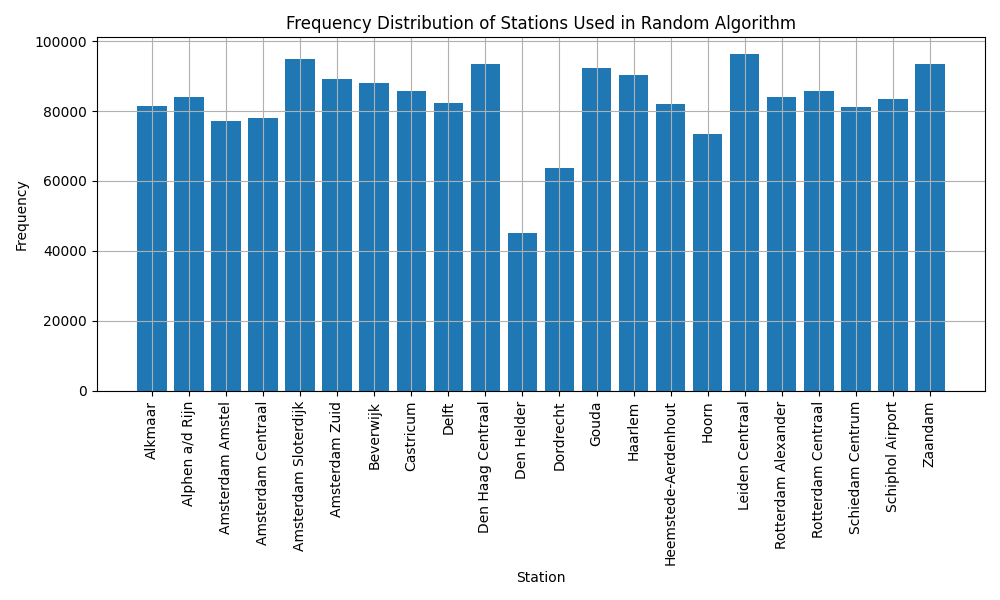
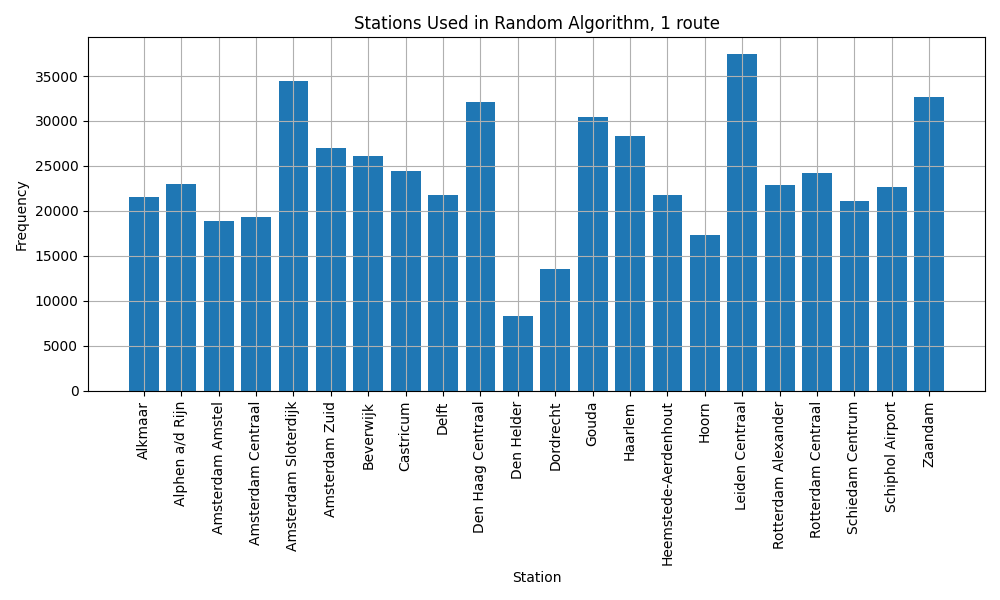
?

diff --git a/parent/main.py b/parent/main.py
@@ -6,6 +6,7 @@ import numpy as np
 from code.classes.railnl import RailNL
 from code.algorithms.algorithm import Algorithm
 from code.algorithms.random_algorithm import RandomAlgorithm
+from code.algorithms.greedy import Greedy
 from code.algorithms.hillclimber import Hillclimber
 from code.algorithms.score import Score
 from parent.code.experiments.experiments import Experiment
@@ -13,25 +14,77 @@ from parent.code.experiments.experiments import Experiment
 if __name__ == "__main__":
     data = RailNL("Holland") # manipulate
 
-    # Test Random Algorithm
-    random_algorithm = RandomAlgorithm(data)
-    random_score = Score(random_algorithm)
-    #random_algorithm.make_picture()
-    print(random_algorithm.output())
-    print(f"Random Algorithm Score: {random_score.calculate()}")
+    # # Test Random Algorithm
+    # random_algorithm = RandomAlgorithm(data)
+    # random_score = Score(random_algorithm)
+    # #random_algorithm.make_picture()
+    # print(random_algorithm.output())
+    # print(f"Random Algorithm Score: {random_score.calculate()}")
 
-    # Perform experiment with RandomAlgorithm and collect scores
-    random_experiment = Experiment(RandomAlgorithm, "Holland")
-    scores = random_experiment.run_experiment(100000)
-    average = random_experiment.average_score()
+    # # Perform experiment with RandomAlgorithm and collect scores
+    # random_experiment = Experiment(RandomAlgorithm, "Holland")
+    # scores = random_experiment.run_experiment(1000)
+    # average = random_experiment.average_score()
+    # print(f"average score: {average}")
+
+
+    # # Plotting the frequency distribution of scores
+    # plt.figure(figsize=(10, 6))
+    # plt.hist(scores, bins=50, edgecolor='black', alpha=0.7)
+    # plt.title('Frequency Distribution of Scores RandomAlgorithm 7 routes')
+    # plt.xlabel('Score')
+    # plt.xlim(0, 10000)
+    # plt.ylabel('Frequency')
+    # plt.grid(True)
+    # plt.tight_layout()
+    # plt.savefig("freq.png")
+
+    # # Plotting frequency distributions of connections used
+    # total_connections = RailNL("Holland").get_total_connections()
+    # connection_labels = [f"{c[0].name} - {c[1].name}" for c in total_connections]
+    
+    # plt.figure(figsize=(10, 10))
+    # plt.bar(range(len(total_connections)), random_experiment.count_connections_used, tick_label=connection_labels)
+    # plt.xticks(rotation=90)
+    # plt.title('Connections Used in Random Algorithm, 1 route')
+    # plt.xlabel('Connection')
+    # plt.ylabel('Frequency')
+    # plt.grid(True)
+    # plt.tight_layout()
+    # plt.savefig("freq2.png")
+
+    # # Plotting frequency distribution of stations used
+    # total_stations = list(RailNL("Holland").stations_dict().values())
+    # station_labels = [station.name for station in total_stations]
+
+    # plt.figure(figsize=(10, 6))
+    # plt.bar(range(len(total_stations)), random_experiment.count_stations_used, tick_label=station_labels)
+    # plt.xticks(rotation=90)
+    # plt.title('Stations Used in Random Algorithm, 1 route')
+    # plt.xlabel('Station')
+    # plt.ylabel('Frequency')
+    # plt.grid(True)
+    # plt.tight_layout()
+    # plt.savefig("freq3.png")
+
+    # Test Greedy Algorithm
+    greedy_alg = Greedy(data)
+    greedy_score = Score(greedy_alg).calculate()
+    greedy_alg.make_picture()
+    print(f"Greedy algorithm score: {greedy_score}")
+
+    # Perform experiment with Greedy and collect scores
+    greedy_experiment = Experiment(Greedy, "Holland")
+    scores = greedy_experiment.run_experiment(1000)
+    average = greedy_experiment.average_score()
     print(f"average score: {average}")
-
 
     # Plotting the frequency distribution of scores
     plt.figure(figsize=(10, 6))
     plt.hist(scores, bins=50, edgecolor='black', alpha=0.7)
-    plt.title('Frequency Distribution of Scores RandomAlgorithm 7 routes')
+    plt.title('Frequency Distribution of Scores Greedy 7 routes')
     plt.xlabel('Score')
+    # plt.xlim(0, 10000)
     plt.ylabel('Frequency')
     plt.grid(True)
     plt.tight_layout()
@@ -42,38 +95,14 @@ if __name__ == "__main__":
     connection_labels = [f"{c[0].name} - {c[1].name}" for c in total_connections]
     
     plt.figure(figsize=(10, 10))
-    plt.bar(range(len(total_connections)), random_experiment.count_connections_used, tick_label=connection_labels)
+    plt.bar(range(len(total_connections)), greedy_experiment.count_connections_used, tick_label=connection_labels)
     plt.xticks(rotation=90)
-    plt.title('Frequency Distribution of Connections Used in Random Algorithm')
+    plt.title('Connections Used in Greedy, 7 routes')
     plt.xlabel('Connection')
     plt.ylabel('Frequency')
     plt.grid(True)
     plt.tight_layout()
     plt.savefig("freq2.png")
-
-    # Plotting frequency distribution of stations used
-    total_stations = list(RailNL("Holland").stations_dict().values())
-    station_labels = [station.name for station in total_stations]
-
-    plt.figure(figsize=(10, 6))
-    plt.bar(range(len(total_stations)), random_experiment.count_stations_used, tick_label=station_labels)
-    plt.xticks(rotation=90)
-    plt.title('Frequency Distribution of Stations Used in Random Algorithm')
-    plt.xlabel('Station')
-    plt.ylabel('Frequency')
-    plt.grid(True)
-    plt.tight_layout()
-    plt.savefig("freq3.png")
-
-    # # Test Greedy Algorithm
-    # greedy_alg = Greedy(data)
-    # greedy_score = Score(greedy_alg).calculate()
-    # greedy_alg.make_picture()
-    # print(f"Greedy algorithm score: {greedy_score}")
-
-    # greedy_experiment = Experiment(Greedy, "Holland", iterations=100)
-    # print(f"Greedy Average Score: {greedy_experiment.average_score()}")
-    # print(f"greedy scores: {greedy_experiment.get_scores()} ")
 
     # # Test Hillclimber algorithm
     # hillclimber_alg = Hillclimber(data, RandomAlgorithm(data))

diff --git a/parent/code/experiments/experiments.py b/parent/code/experiments/experiments.py
@@ -47,7 +47,7 @@ class Experiment:
         """
         # Scores are saved in numpy array, way faster than list!
         # Space in memory is reserved and filled with zeros
-        self.scores: "nparray[float]" = np.full(iterations, np.nan)
+        self.scores: "nparray[float]" = np.zeros(iterations)
         
         for i in range(iterations):
             # Ensure each run starts with a fresh state.
@@ -59,7 +59,6 @@ class Experiment:
             # Add score to array at correct positions
             self.scores[i] = score
 
-<<<<<<< HEAD
             # Count each connection used
             used_connections = algorithm_instance.get_total_connections_used()
             for connection in used_connections:
@@ -83,9 +82,6 @@ class Experiment:
                 print("Warning: get_stations_used() returned None.")
 
         assert np.count_nonzero(self.scores) == iterations, "Not all scores have been filled in, bug in run_experiment."
-=======
-        assert any(np.isnan(self.scores)), "Not all scores have been filled in, bug in run_experiment."
->>>>>>> db92ca17aa064f6bca0c3924910cd452a81b2ceb
         return self.scores
     
     def average_score(self) -> float:

diff --git a/parent/code/algorithms/random_algorithm.py b/parent/code/algorithms/random_algorithm.py
@@ -14,7 +14,7 @@ class RandomAlgorithm(Algorithm):
 
     def run(self) -> None:
         # N = choice([1, 2, 3, 4, 5, 6, 7])
-        N = 7 # manipulate
+        N = 1 # manipulate
         for _ in range(N):
             time_used = 0
             route = Route()
